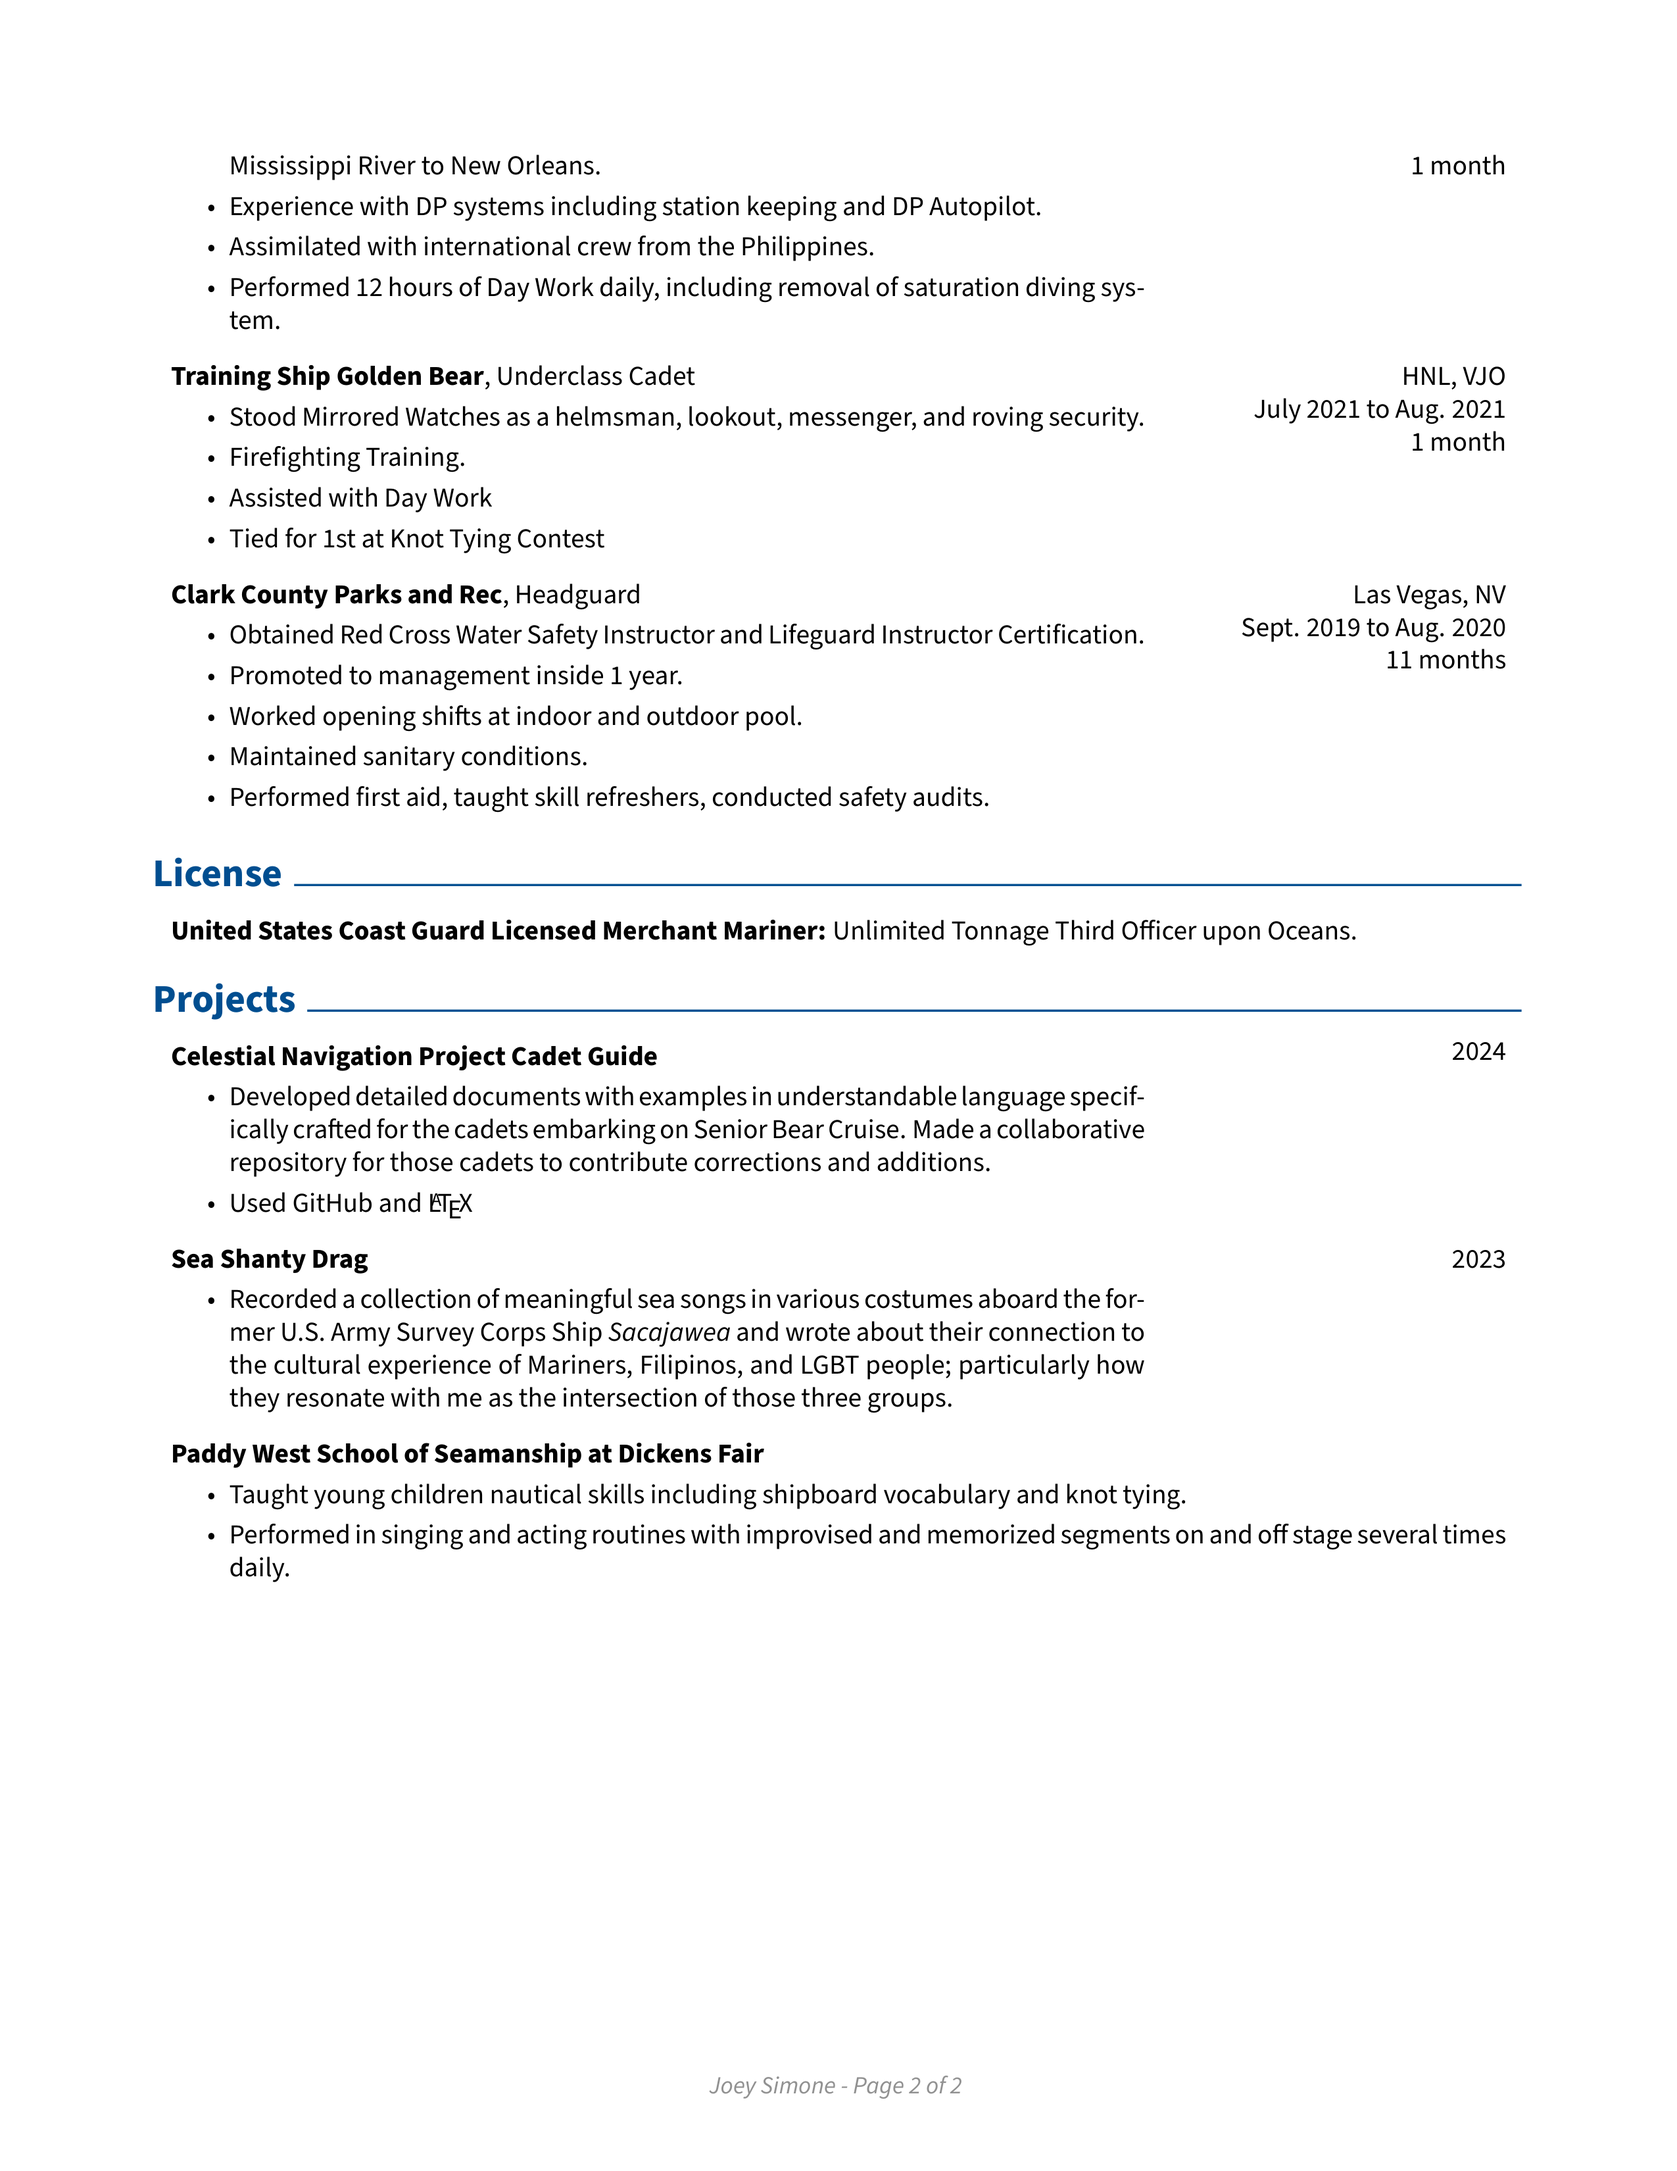
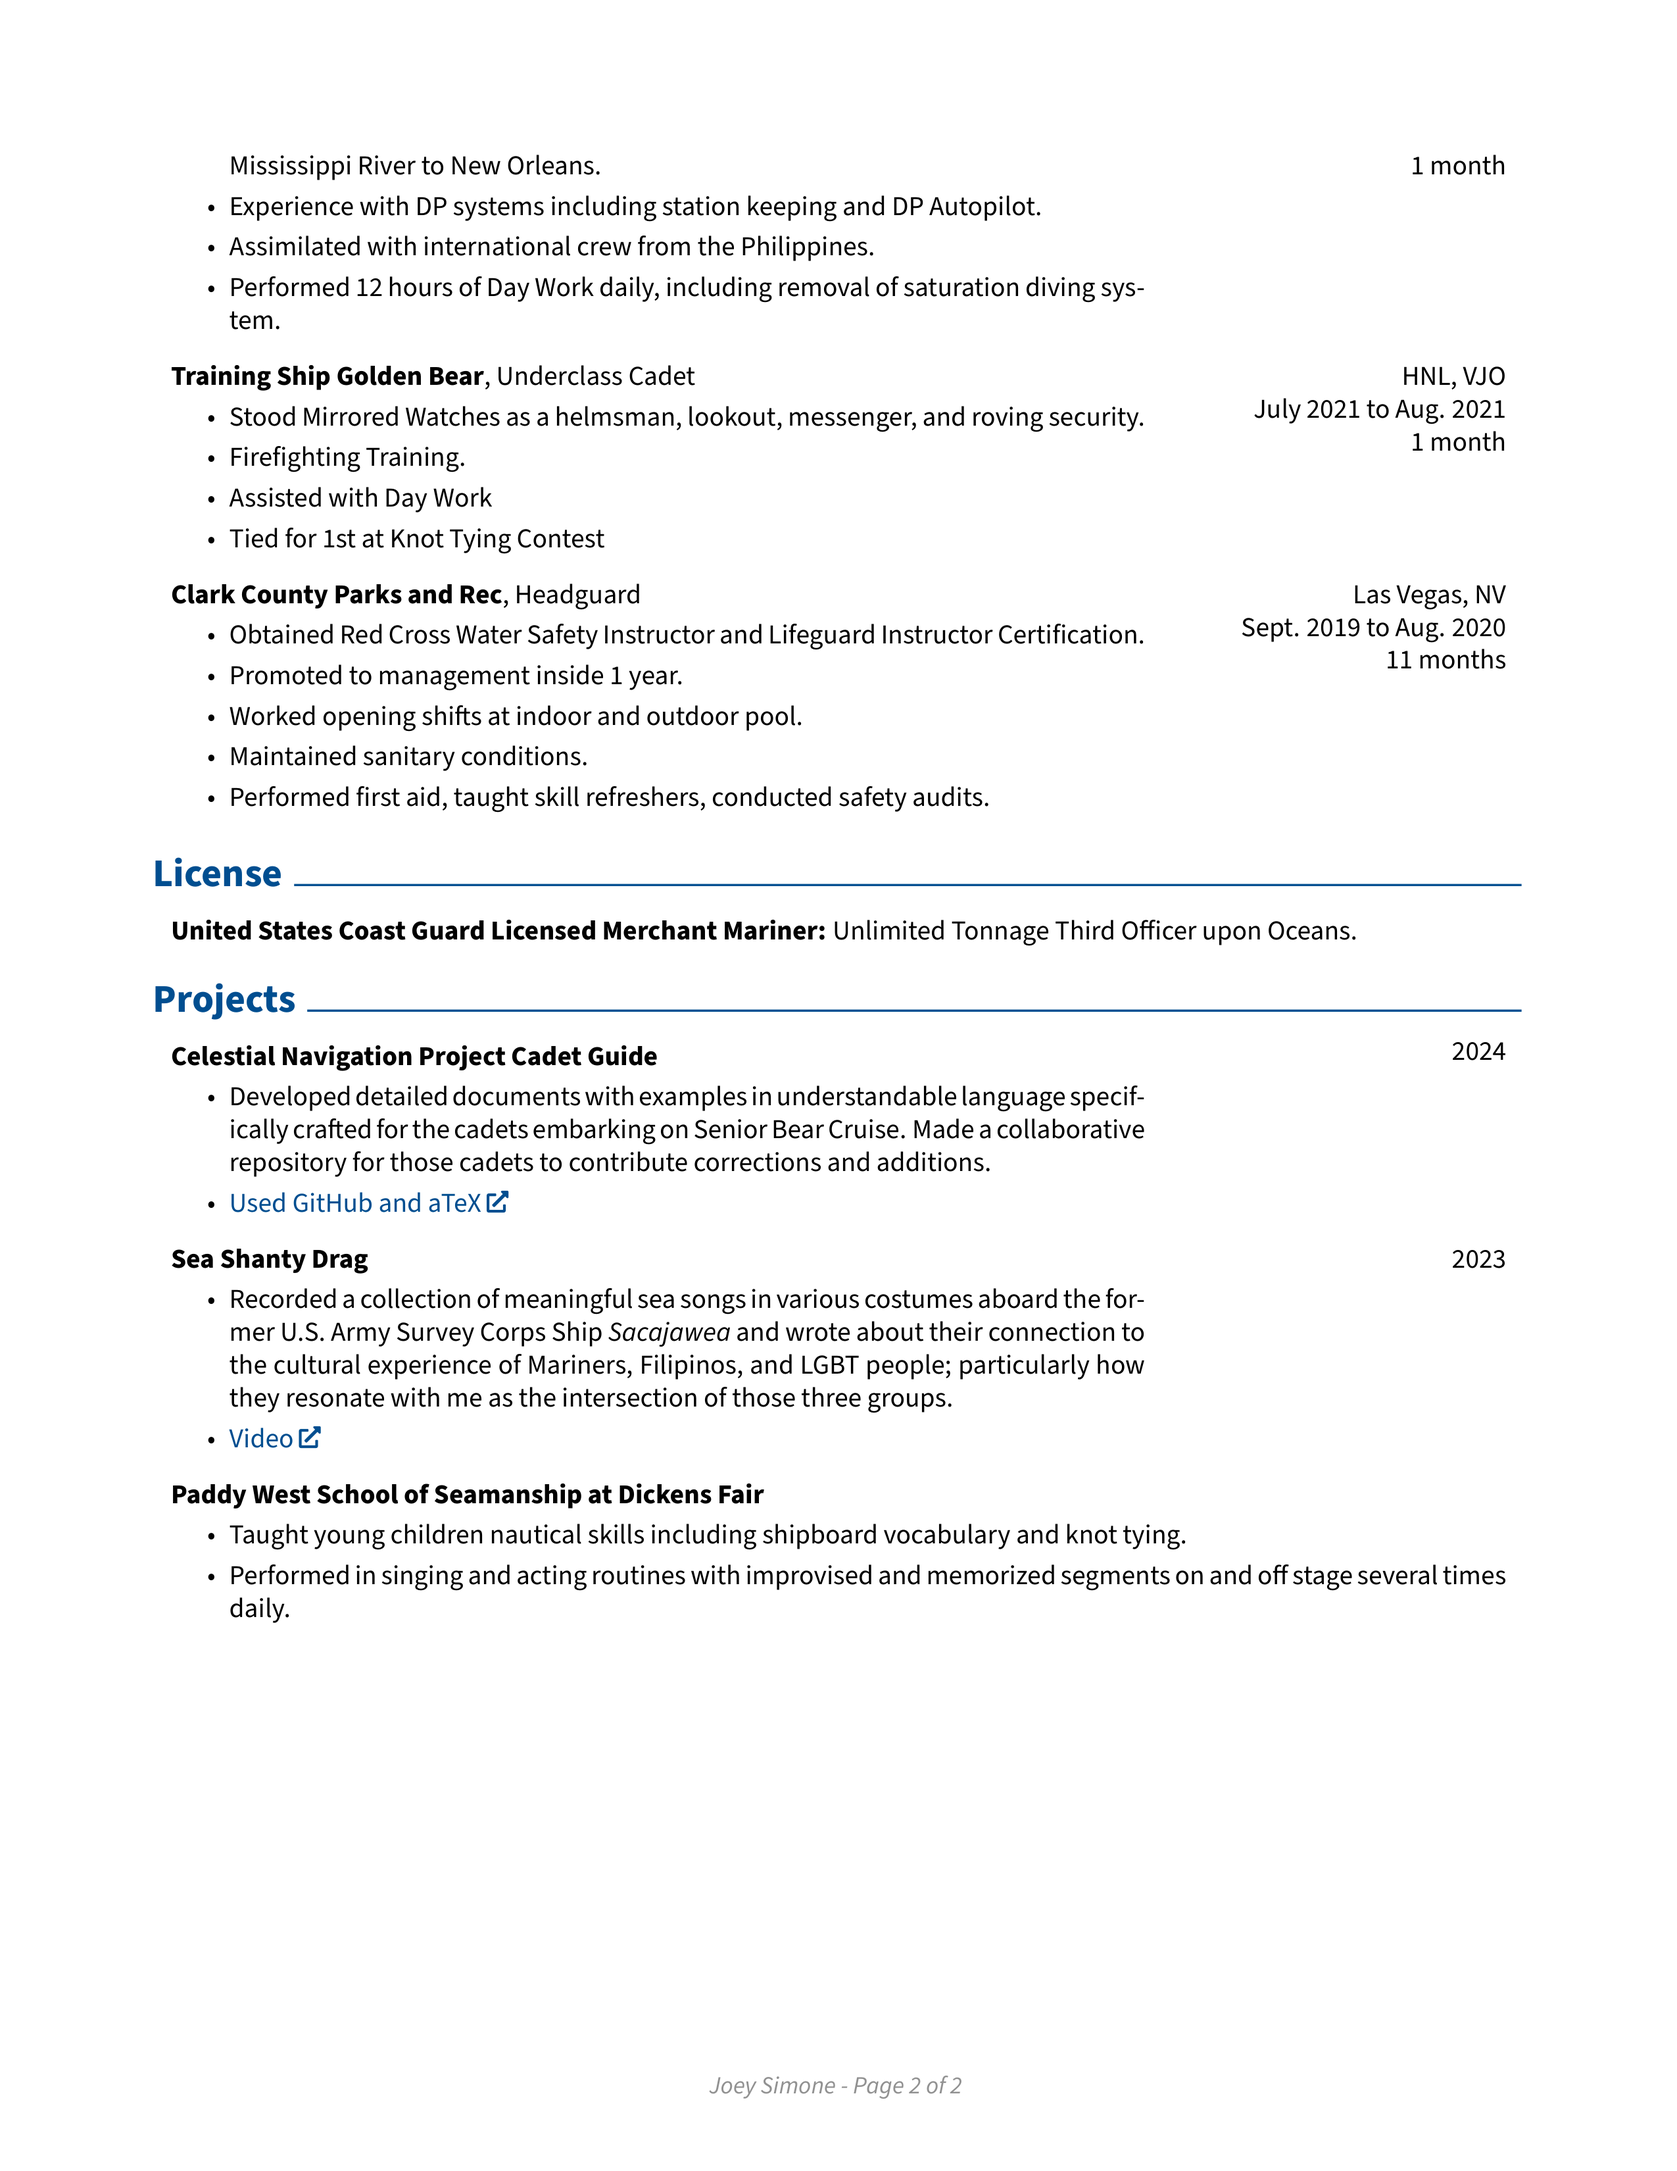
Links working

diff --git a/rendercv_output/Joey_Simone_CV_PASTETOGRAMMARLY.html b/rendercv_output/Joey_Simone_CV_PASTETOGRAMMARLY.html
@@ -89,12 +89,13 @@
 <ul>
 <li>2024</li>
 <li>Developed detailed documents with examples in understandable language specifically crafted for the cadets embarking on Senior Bear Cruise. Made a collaborative repository for those cadets to contribute corrections and additions.</li>
-<li>Used GitHub and \LaTeX</li>
+<li><a href="https://github.com/averagejoey2000/celestial">Used GitHub and  aTeX</a></li>
 </ul>
 <h2>Sea Shanty Drag</h2>
 <ul>
 <li>2023</li>
 <li>Recorded a collection of meaningful sea songs in various costumes aboard the former U.S. Army Survey Corps Ship <em>Sacajawea</em> and wrote about their connection to the cultural experience of Mariners, Filipinos, and LGBT people; particularly how they resonate with me as the intersection of those three groups.</li>
+<li><a href="https://www.youtube.com/watch?v=oUYFaghc-xI">Video</a></li>
 </ul>
 <h2>Paddy West School of Seamanship at Dickens Fair</h2>
 <ul>

diff --git a/rendercv_output/Joey_Simone_CV.tex b/rendercv_output/Joey_Simone_CV.tex
@@ -374,7 +374,8 @@
             \textbf{Celestial Navigation Project Cadet Guide}
             \begin{highlights}
                 \item Developed detailed documents with examples in understandable language specifically crafted for the cadets embarking on Senior Bear Cruise. Made a collaborative repository for those cadets to contribute corrections and additions.
-                \item Used GitHub and \LaTeX
+                \item \href{https://github.com/averagejoey2000/celestial}{Used GitHub and 
+        aTeX}
             \end{highlights}
         \end{twocolentry}
 
@@ -387,6 +388,7 @@
             \textbf{Sea Shanty Drag}
             \begin{highlights}
                 \item Recorded a collection of meaningful sea songs in various costumes aboard the former U.S. Army Survey Corps Ship \textit{Sacajawea} and wrote about their connection to the cultural experience of Mariners, Filipinos, and LGBT people; particularly how they resonate with me as the intersection of those three groups.
+                \item \href{https://www.youtube.com/watch?v=oUYFaghc-xI}{Video}
             \end{highlights}
         \end{twocolentry}
 

diff --git a/rendercv_output/Joey_Simone_CV.md b/rendercv_output/Joey_Simone_CV.md
@@ -92,12 +92,13 @@
 
 - 2024
 - Developed detailed documents with examples in understandable language specifically crafted for the cadets embarking on Senior Bear Cruise. Made a collaborative repository for those cadets to contribute corrections and additions.
-- Used GitHub and \LaTeX
+- [Used GitHub and  aTeX](https://github.com/averagejoey2000/celestial)
 
 ## Sea Shanty Drag
 
 - 2023
 - Recorded a collection of meaningful sea songs in various costumes aboard the former U.S. Army Survey Corps Ship *Sacajawea* and wrote about their connection to the cultural experience of Mariners, Filipinos, and LGBT people; particularly how they resonate with me as the intersection of those three groups.
+- [Video](https://www.youtube.com/watch?v=oUYFaghc-xI)
 
 ## Paddy West School of Seamanship at Dickens Fair
 
